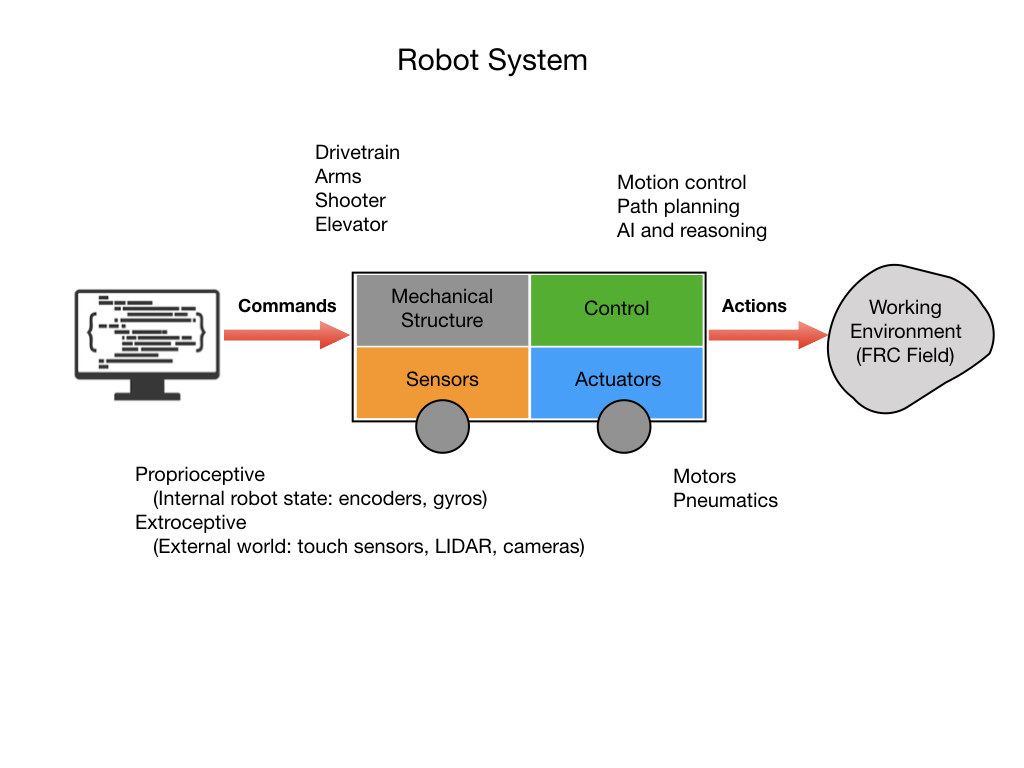
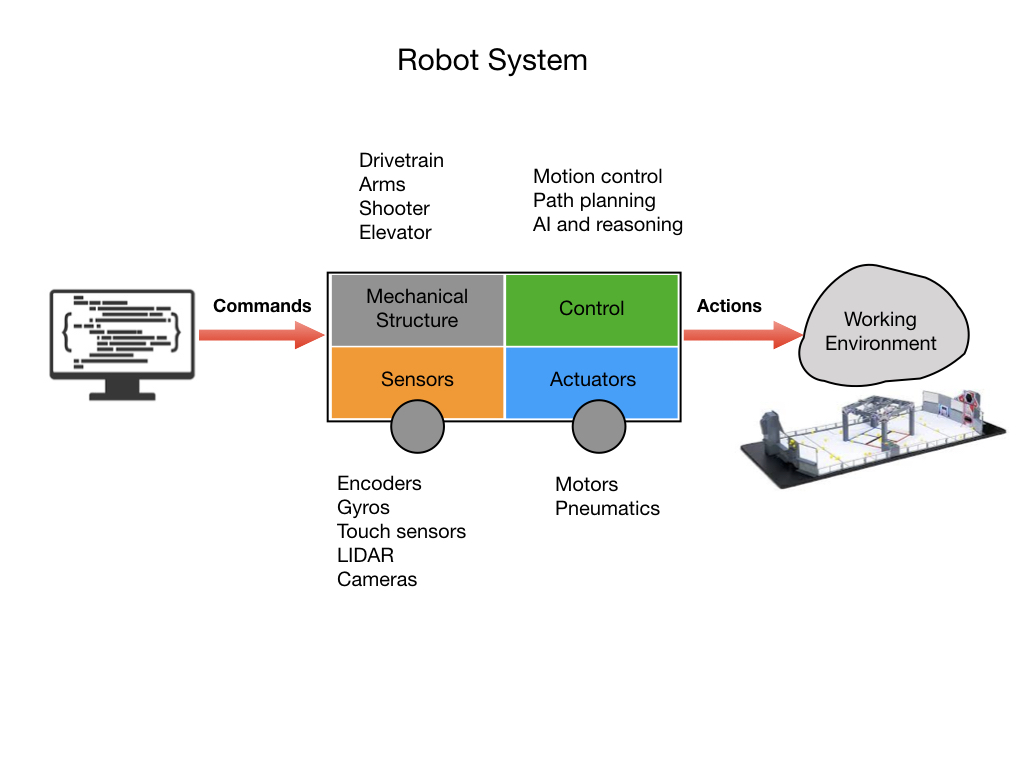
Added Robot system and Classes diagrams

diff --git a/Languages/Intro/classes.md b/Languages/Intro/classes.md
@@ -1,17 +1,34 @@
 # Classes
-A class is a representation of an object, idea, or concept in the real world.  A class is just another type such as the programming language types integer and float. For example, a float is an approximation of the mathematical concept of a real number.  
+A class is a representation of an object, idea, or concept in the real world.  
+
+- It's a blueprint for creating objects.
+
+      Provides a template or blueprint for defining the nature of new objects.  Each object is a specific instance of a class.
+
+- Consists of data attributes and member functions.
+
+      Attributes describe the objects, whereas functions define possible behaviors or operations that can be carried out by an object.
 
 - A class is a user defined data type.
-- Consists of data members and member functions.
-- A class is a namespace.
+
+      A class is just another type such as the programming language types String and float. For example, a float is an approximation of the mathematical concept of a real number. 
+
+![Classes](../../images/FRCProgramming/FRCProgramming.002.jpeg)
+
 - Public members provide a interface.
+
+      An interface describes the operations that can be performed by the class.  It does not say anything about how that operation is carried out or implemented.
+
 - Private members provide implementation details.
+
+      The private member functions contain the code that define the behavior of that objects.
+
 - The contructor is used to initialize objects and has the same name as the class.
 
-Examples of classes:
+      A constructor is a special method that is used to initialize the values for the object's attributes. The constructor is called when an object of a class is created.  It's important that you initialize all of an object's attributes otherwise the object in left in a partially undefined state.
 
-<!-- ![Classes](../../images/FRCRobot/FRCRobot.017.jpeg) -->
 
+![Classes](../../images/FRCProgramming/FRCProgramming.003.jpeg)
 
 
 <h3><span style="float:left">

diff --git a/Concepts/RobotSystem/intro.md b/Concepts/RobotSystem/intro.md
@@ -2,6 +2,22 @@
 
 ![Robot System](../../images/FRCConcepts/FRCConcepts.001.jpeg)
 
+# Mechanical Structure
+
+![Robot System](../../images/FRCConcepts/FRCConcepts.002.jpeg)
+
+# Sensors
+
+![Robot System](../../images/FRCConcepts/FRCConcepts.003.jpeg)
+
+# Actuators
+
+![Robot System](../../images/FRCConcepts/FRCConcepts.004.jpeg)
+
+# Motion Control
+
+![Robot System](../../images/FRCConcepts/FRCConcepts.005.jpeg)
+
 <h3><span style="float:left">
 <a href="../../index">Previous</a></span>
 <span style="float:right">
